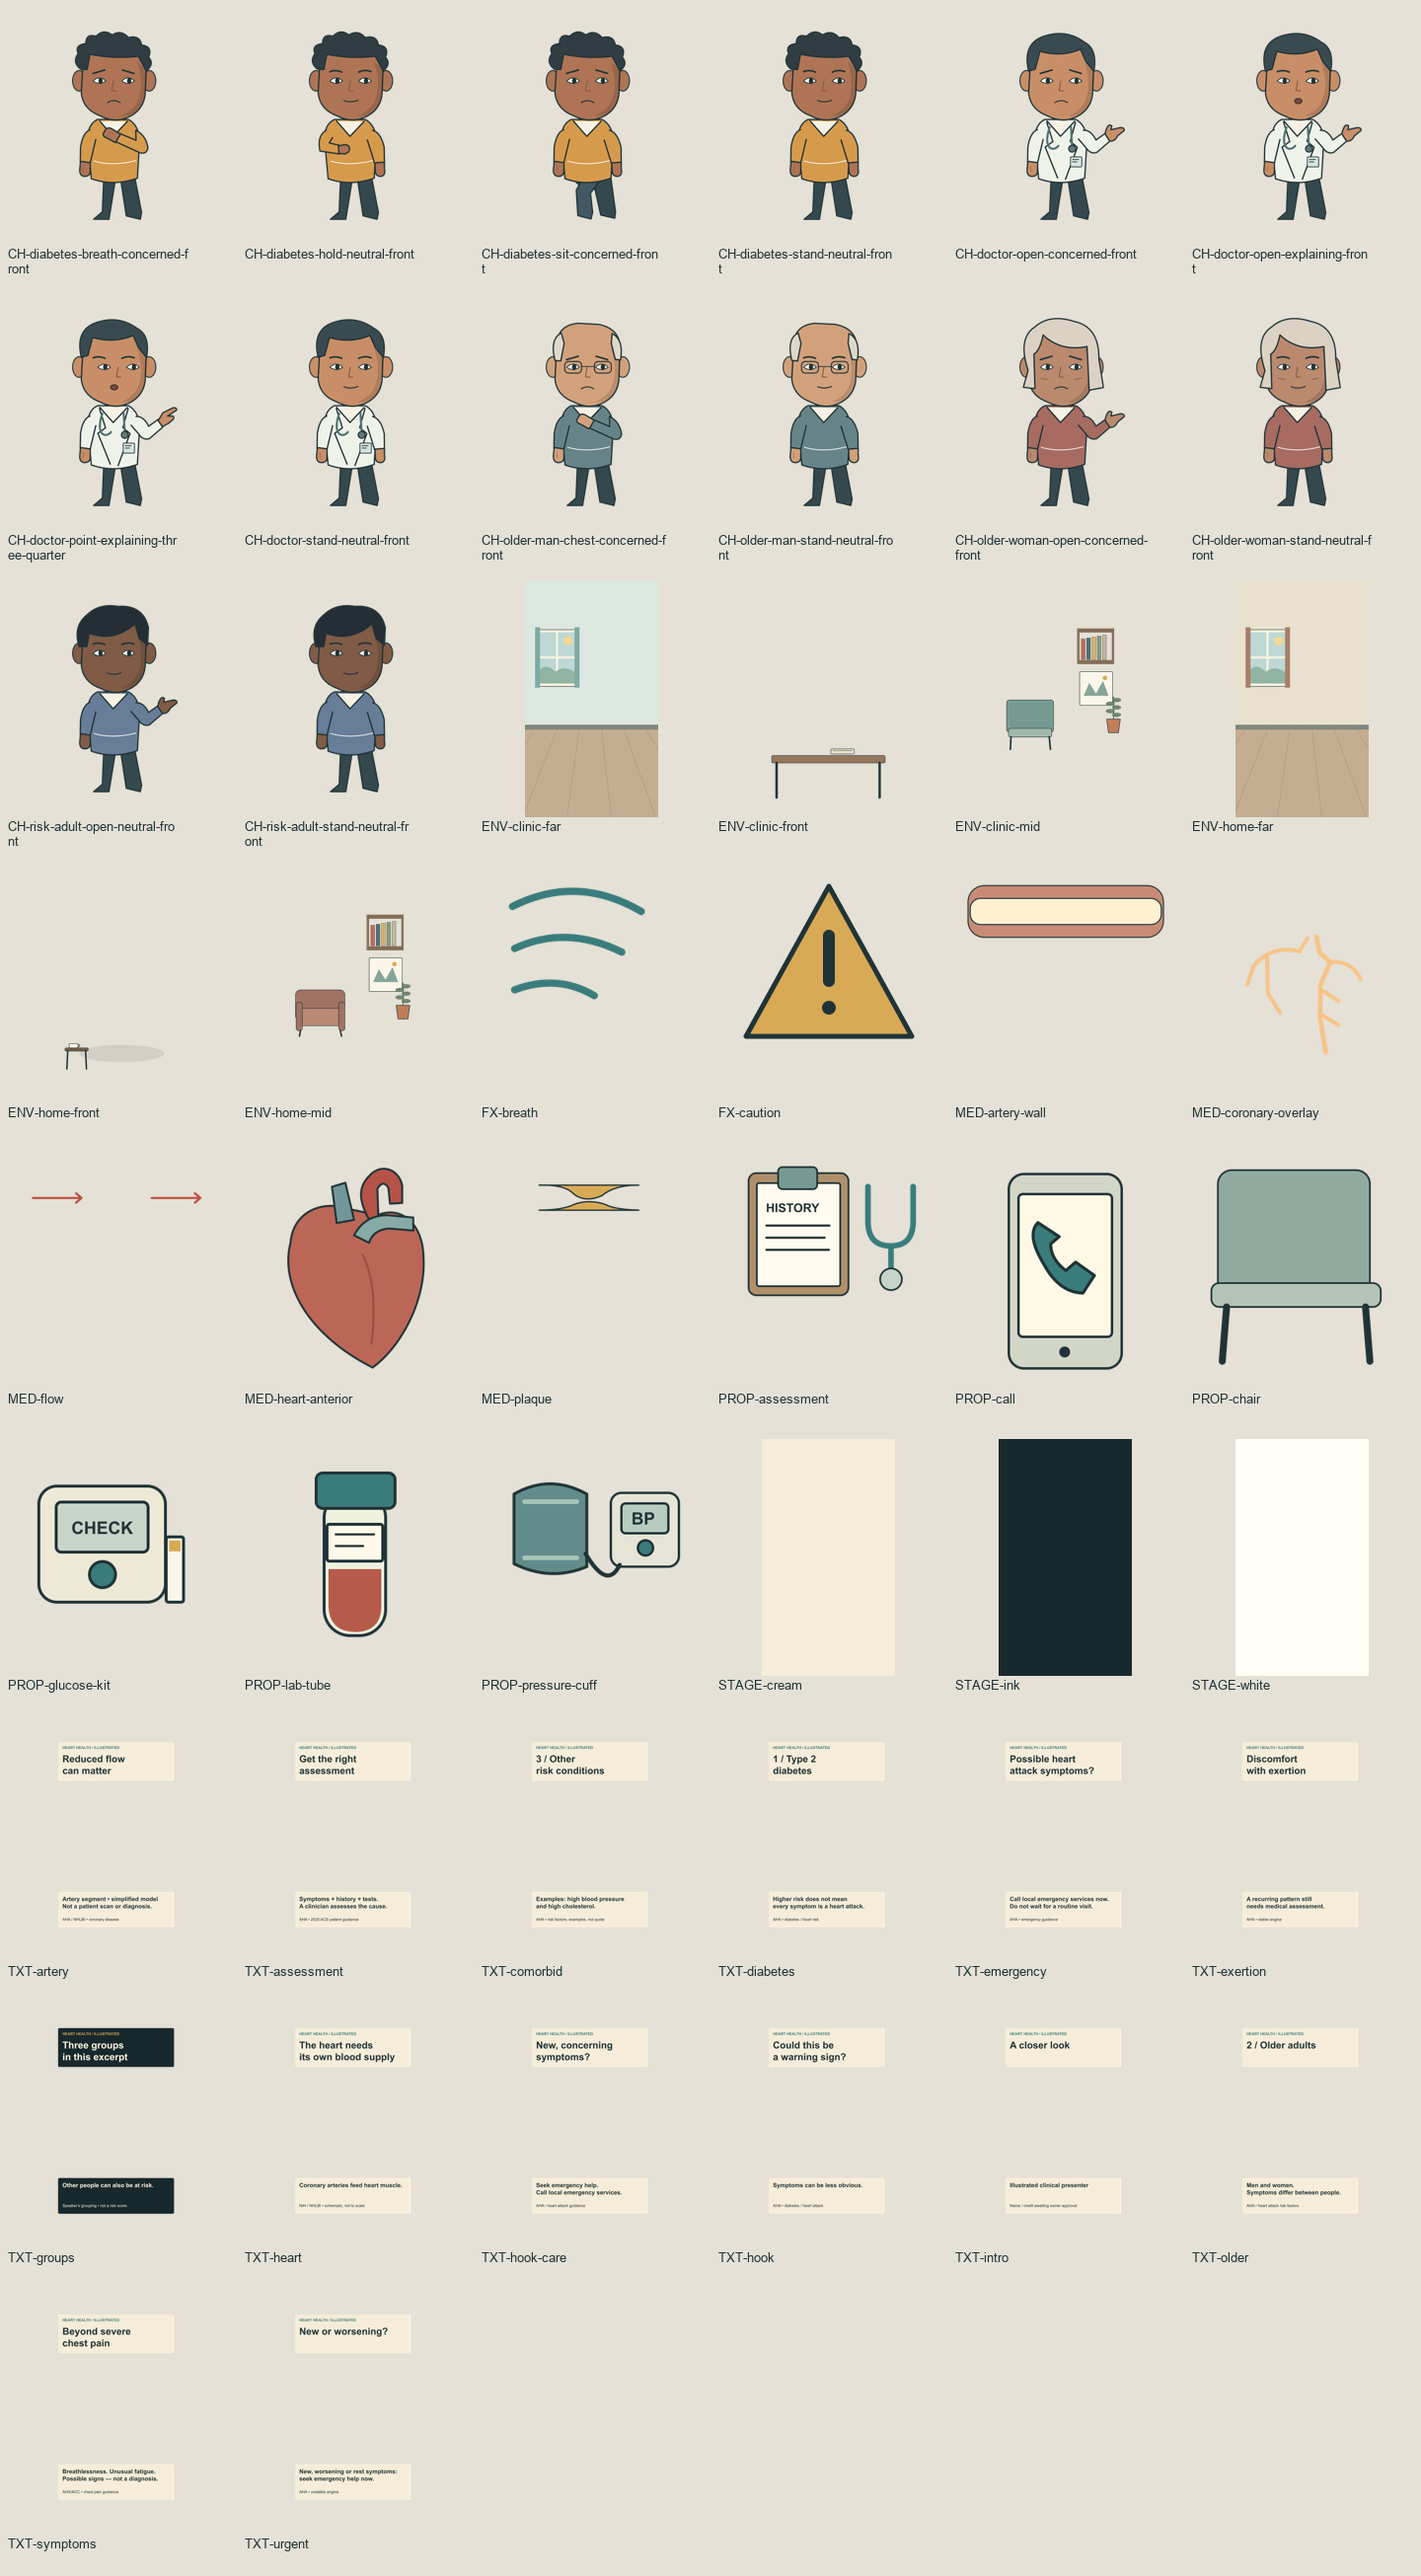
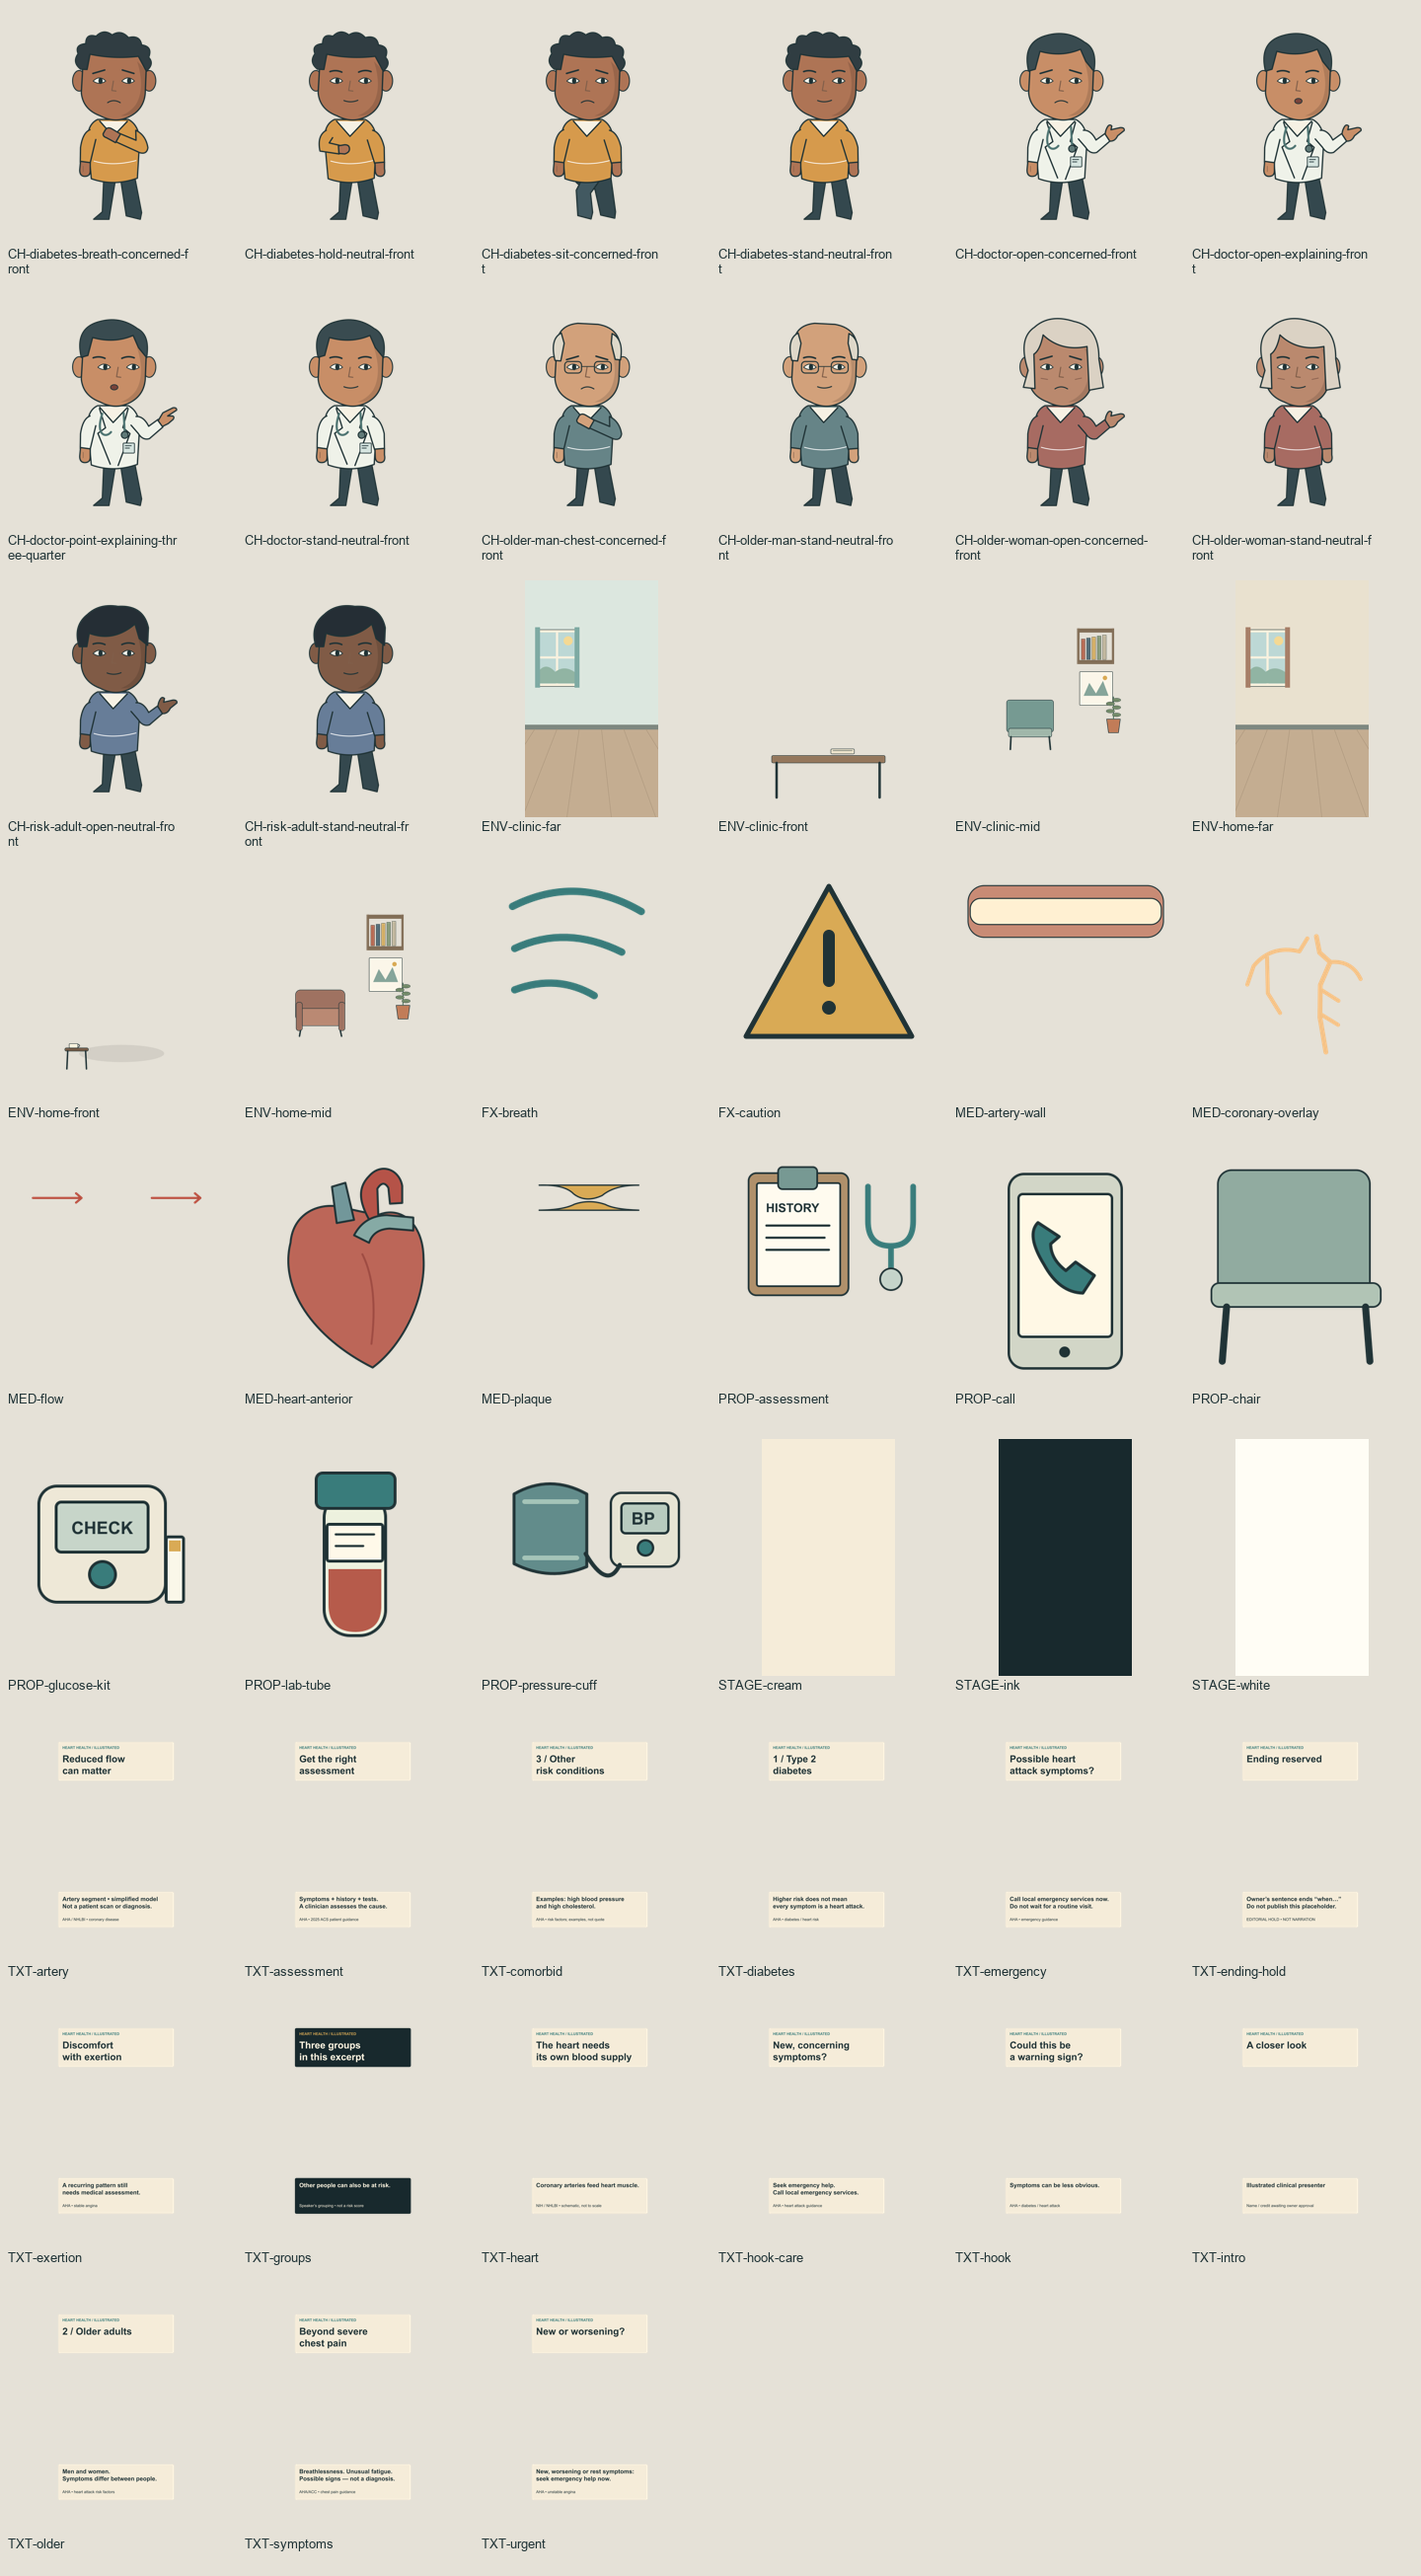
production: reserve incomplete ending with editable callback state

diff --git a/productions/dr-rehan-diabetes-heart-warning-01/ASSET_QA.md b/productions/dr-rehan-diabetes-heart-warning-01/ASSET_QA.md
@@ -11,3 +11,5 @@ Automated check: tools/validate.py checks existence, dimensions, alpha, source h
 - S05: A/B phone review passes. Distinct older man/woman silhouettes, glasses/hair/outfit identities fixed. Same head scale and floor baseline; neither shown as automatically symptomatic. CE03 sequential entrance leaves same background intact. Extra concerned poses authored for possible later use, not counted as new character designs.
 - S06: A/B phone review. Removed clinic furniture from this group card after detecting misleading bench/feet overlap; now consistently reuses cream group stage. Cuff/monitor tubing connected; tube and monitor are symbolic editorial overlays, not held objects or diagnostic results. No reading invented. CE03 sequential prop build and pose swap. M04 examples explicitly not quote. PASS, clinician confirmation of intended comorbidity examples pending.
 - S07: A–D phone review. Corrected clinician/patient placement so feet meet floor rather than floating above clinic bench. Heart is anterior schematic with surface coronary branches; artery segment retains lumen through narrowing and arrows denote direction only, not measured velocity. No ECG/scan/results. CE05 layered mechanism build; CE02 reusable clinic interaction. Emergency care panel is mandatory alongside acute dialogue. Anatomy checked against NHLBI conceptual description; clinician anatomical sign-off remains pending.
+- S08: phone review passes as an editorial HOLD only. Home callback prepared; missing final words are not invented. NOT approved for publication, no closing medical advice attributed to doctor.
+- Native 1080×1920 S07-A inspected: crisp vector curves and legible main/source text; coronary model deliberately omits posterior vessels, chambers and detailed vessel naming. Not a diagnostic or anatomical teaching atlas; clinician review required before publication.
